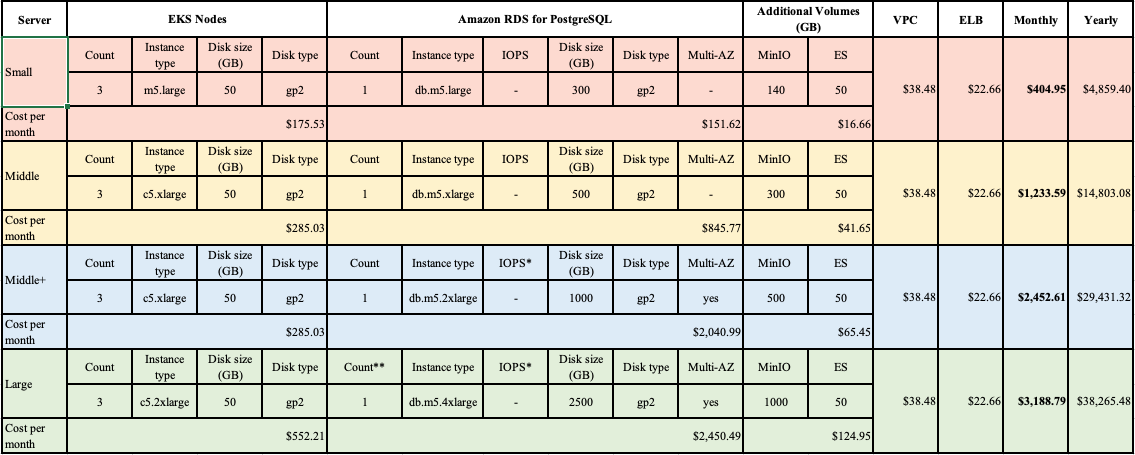
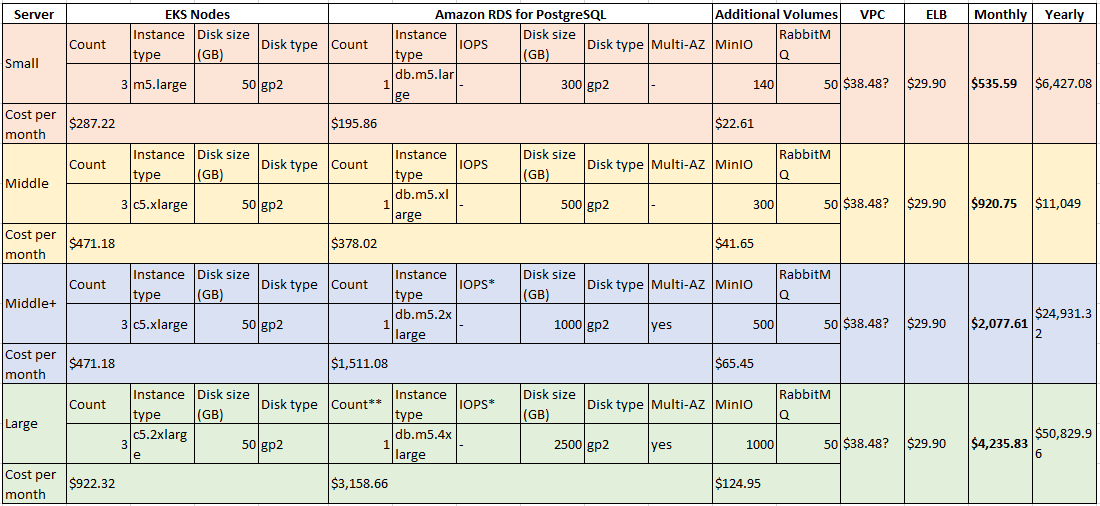
Add new images, section about ES

Changed region(s): [[0.0, 0.0, 1.0, 1.0]]

diff --git a/src/md/src/TipsAndTricks/PerfIssuesResolving.md b/src/md/src/TipsAndTricks/PerfIssuesResolving.md
@@ -28,8 +28,19 @@
 <br/>
 
    Kubernetes:
-   [ ![Image](Images/Kubernetes_server_types.png) ](Images/Kubernetes_server_types.png)
 
+   [ ![Image](Images/Kubernetes_server_types.png) ](Images/Kubernetes_server_types.png)
+   
+**NOTE**
+
+After the Report Portal version 5.7.2 additional nodes for Elasticsearch are required:
+
+   [ ![Image](Images/Elastic_nodes.png) ](Images/Elastic_nodes.png)
+   
+   Kubernetes with additional nodes for Elasticsearch:
+
+   [ ![Image](Images/Kubernetes_server_types_elastic.png) ](Images/Kubernetes_server_types_elastic.png)
+   
 <br/>**io2 = 1 GB per month x 0.149 USD x 1 instances = 0.149 USD (EBS Storage Cost) / iops = 1 Provisioned IOPS x 0.119 USD x 1 instances = 0.119 USD (EBS IOPS Cost)*<br/>
    ***Replica*
 
@@ -253,3 +264,28 @@ max_connections=500
 *The values of these parameters are given for example only, but in general, can be valid for all types of loads for servers middle+ and large.*
 
 Please note, that the max_connections paramether must be more than the sum of the RP_DATASOURCE_MAXIMUMPOOLSIZE for the API and the UAT services + several connections for connecting to the database from outside.
+
+### 7. Elasticsearch Performance Tuning
+
+To retrieve statistics from a cluster:
+
+```
+GET /_cluster/stats
+```
+
+The API returns basic index metrics (shard numbers, store size, memory usage) and information about the current nodes that form the cluster (number, roles, os, jvm versions, memory usage, cpu and installed plugins).
+
+To increase the limits of the total number of primary and replica shards for the cluster:
+
+```
+PUT /_cluster/settings
+
+{
+  "persistent" : {
+    "cluster.max_shards_per_node": 10000
+  }
+}
+```
+Keep in mind, that the more shards you allow per node the more resources each node will need and the worse the performance can get.
+
+
